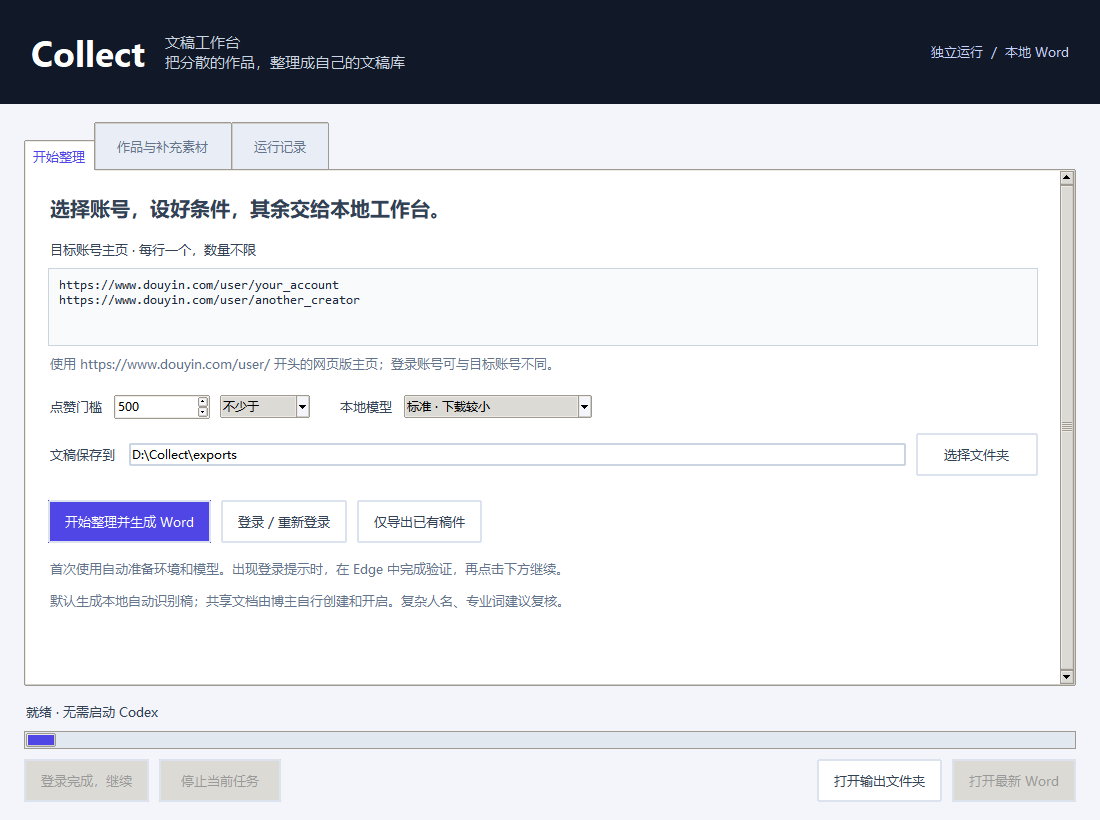
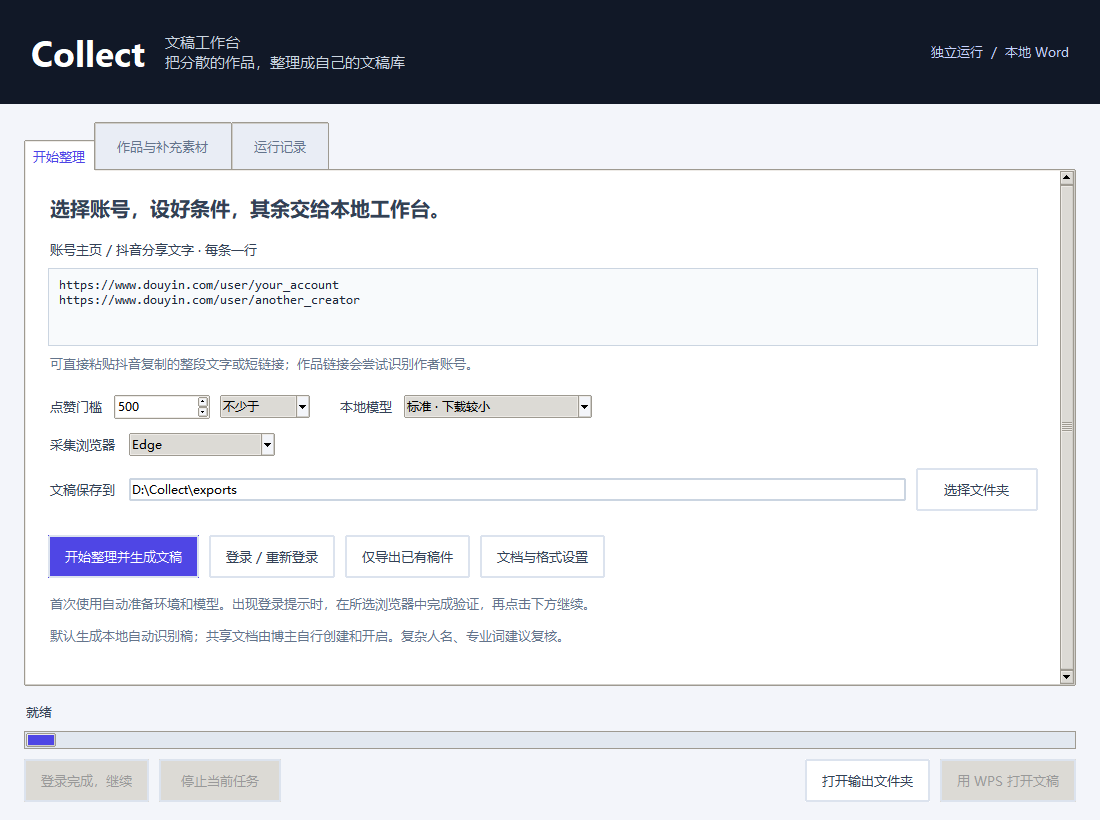
Add existing document targets and configurable formatting

diff --git a/scripts/desktop.py b/scripts/desktop.py
@@ -22,7 +22,7 @@ from douyin_viral_collector.desktop_runner import DesktopRunner
 
 STATUS = {'discovered': '等待识别', 'processing': '识别中', 'waiting_media': '需要原视频',
     'waiting_subtitles': '需要字幕画面', 'failed': '待重试', 'ready_to_archive': '可导出',
-    'exported_local': '已导出 Word', 'archived': '已归档', 'already_present': '已收录',
+    'exported_local': '已导出文稿', 'archived': '已归档', 'already_present': '已收录',
     'duplicate_review': '疑似重复，待核对', 'uncertain': '需要核对'}
 
 
@@ -121,12 +121,13 @@ class App(tk.Tk):
         ttk.Button(output, text='选择文件夹', command=self.choose_output).grid(row=0, column=2, padx=(10, 0))
         actions = ttk.Frame(setup, style='Card.TFrame')
         actions.grid(row=7, column=0, sticky='w', pady=(24, 14))
-        self.start_button = ttk.Button(actions, text='开始整理并生成 Word', style='Primary.TButton', command=self.start)
+        self.start_button = ttk.Button(actions, text='开始整理并生成文稿', style='Primary.TButton', command=self.start)
         self.start_button.pack(side='left', padx=(0, 10))
         self.login_button = ttk.Button(actions, text='登录 / 重新登录', command=lambda: self.start(True))
         self.login_button.pack(side='left', padx=(0, 10))
         self.export_button = ttk.Button(actions, text='仅导出已有稿件', command=lambda: self.task(self.runner.export))
         self.export_button.pack(side='left')
+        ttk.Button(actions,text='文档与格式设置',command=self.document_settings).pack(side='left',padx=(10,0))
         ttk.Label(setup, text='首次使用自动准备环境和模型。出现登录提示时，在所选浏览器中完成验证，再点击下方继续。',
             style='Card.TLabel', foreground='#64748b').grid(row=8, column=0, sticky='w', pady=(0, 9))
         ttk.Label(setup, text='默认生成本地自动识别稿；共享文档由博主自行创建和开启。复杂人名、专业词建议复核。',
@@ -150,7 +151,7 @@ class App(tk.Tk):
         self.log.pack(fill='both', expand=True)
         bottom = ttk.Frame(main, padding=(0, 14, 0, 0))
         bottom.pack(fill='x')
-        self.stage = tk.StringVar(value='就绪 · 无需启动 Codex')
+        self.stage = tk.StringVar(value='就绪')
         ttk.Label(bottom, textvariable=self.stage).pack(anchor='w')
         self.progress = ttk.Progressbar(bottom, mode='indeterminate')
         self.progress.pack(fill='x', pady=(8, 10))
@@ -229,7 +230,7 @@ class App(tk.Tk):
                     self.last_file = event.get('path')
                     if self.last_file:
                         self.open_file_button.configure(state='normal')
-                    self.stage.set(f"已生成 Word：{event.get('count', 0)}篇；待处理：{event.get('pending_count', 0)}篇。")
+                    self.stage.set(f"已生成文稿：{event.get('count', 0)}篇；待处理：{event.get('pending_count', 0)}篇。")
                 if kind in ('log', 'error'):
                     self.log.configure(state='normal')
                     self.log.insert('end', event.get('text', '') + '\n')
@@ -285,6 +286,27 @@ class App(tk.Tk):
             filetypes=[('视频文件', '*.mp4 *.mov *.mkv *.webm *.avi'), ('所有文件', '*.*')])
         if file:
             self.task(lambda: self.runner.bind_and_process(item['id'], file))
+
+    def document_settings(self):
+        from douyin_viral_collector.document_settings import save_settings,DEFAULTS
+        config=self.runner.config();fmt=dict(DEFAULTS,**config.get('document_format',{}));dialog=tk.Toplevel(self);dialog.title('文档与格式设置');dialog.geometry('720x630');dialog.transient(self)
+        panel=ttk.Frame(dialog,padding=20);panel.pack(fill='both',expand=True);panel.columnconfigure(1,weight=1);variables={}
+        fields=[('base_document','已有本地文档（可选）',config.get('word_export',{}).get('base_document','')),('url','金山共享文档链接（可选）',config.get('wps',{}).get('url','')),('title','共享文档准确标题',config.get('wps',{}).get('title','')),('font','字体',fmt['font']),('body_size','正文字号（磅）',fmt['body_size']),('heading_size','账号标题字号（磅）',fmt['heading_size']),('line_spacing','行距（倍数）',fmt['line_spacing']),('article_gap','篇间距（磅）',fmt['article_gap'])]
+        for row,(key,label,value) in enumerate(fields):
+            variables[key]=tk.StringVar(value=str(value));ttk.Label(panel,text=label).grid(row=row,column=0,sticky='w',pady=9);ttk.Entry(panel,textvariable=variables[key]).grid(row=row,column=1,sticky='ew',padx=(10,0))
+        def choose():
+            selected=filedialog.askopenfilename(parent=dialog,filetypes=[('WPS / Word 文档','*.docx')])
+            if selected:variables['base_document'].set(selected)
+        ttk.Button(panel,text='选择',command=choose).grid(row=0,column=2,padx=6)
+        flags={}
+        for row,(key,label,value) in enumerate([('inherit_existing','已有本地文档：沿用原有默认正文样式',fmt['inherit_existing']),('account_page_break','账号标题另起一页',fmt['account_page_break']),('cloud','启用共享文档追加（首次需备份及副本验证）',config.get('wps',{}).get('enabled',False))],8):
+            flags[key]=tk.BooleanVar(value=value);ttk.Checkbutton(panel,text=label,variable=flags[key]).grid(row=row,column=0,columnspan=3,sticky='w',pady=8)
+        ttk.Label(panel,text='本地已有文档保留原文和原格式，追加后另存新文件；不覆盖原件。\n自定义样式用于新增内容。共享写入需先完成该目标的验证。',wraplength=650).grid(row=11,column=0,columnspan=3,sticky='w',pady=12)
+        def save():
+            try:
+                values={k:v.get() for k,v in variables.items()};values.update({k:v.get() for k,v in flags.items()});save_settings(self.project,**values);self.stage.set('文档与格式设置已保存');dialog.destroy()
+            except (ValueError,OSError) as exc:messagebox.showerror('设置未保存',str(exc),parent=dialog)
+        ttk.Button(panel,text='保存设置',command=save,style='Primary.TButton').grid(row=12,column=1,sticky='e')
 
     def open_file(self):
         if self.last_file and Path(self.last_file).is_file():

diff --git a/src/douyin_viral_collector/richtext.py b/src/douyin_viral_collector/richtext.py
@@ -6,25 +6,27 @@ import xml.etree.ElementTree as ET
 from .wps_integrity import NS, W
 
 
-def archive_html(lines, headings=()):
+def archive_html(lines, headings=(), formatting=None):
+    from .document_settings import formatting as resolve_format
+    fmt=resolve_format({"document_format":formatting or {}})
     headings = set(headings)
     paragraphs = []
     for text in lines:
         if not text.strip():
             continue
         heading = text in headings
-        size = '14' if heading else '10.5'
+        size = format(fmt['heading_size'] if heading else fmt['body_size'],'g')
         entry = bool(re.match(r'^(?:20\d\d年)?\d{1,2}月\d{1,2}日', text.strip()))
-        gap = '10.5pt' if entry else '0'
-        style = (f'font-family:宋体;font-size:{size}pt;margin:0;margin-top:{gap};line-height:100%;'
+        gap = str(fmt['article_gap'])+'pt' if entry else '0'
+        style = (f'font-family:{html.escape(fmt["font"],quote=True)};font-size:{size}pt;margin:0;margin-top:{gap};line-height:{fmt["line_spacing"]*100}%;'
                  f'text-align:{"center" if heading else "left"};'
-                 + ('page-break-before:always;' if heading else 'page-break-before:auto;'))
-        paragraphs.append(f'<p style="{style}"><span style="font-family:宋体;font-size:{size}pt">{html.escape(text)}</span></p>')
+                 + ('page-break-before:always;' if heading and fmt['account_page_break'] else 'page-break-before:auto;'))
+        paragraphs.append(f'<p style="{style}"><span style="font-family:{html.escape(fmt["font"],quote=True)};font-size:{size}pt">{html.escape(text)}</span></p>')
     return '<html><body>'+''.join(paragraphs)+'</body></html>'
 
 
-def paste_archive(page, lines, headings=(), trim_terminal=True):
-    payload={'html':archive_html(lines, headings),'text':'\n'.join(lines)}
+def paste_archive(page, lines, headings=(), trim_terminal=True, formatting=None):
+    payload={'html':archive_html(lines, headings, formatting),'text':'\n'.join(lines)}
     handled=page.evaluate("""({html,text})=>{
         const data=new DataTransfer();data.setData('text/html',html);data.setData('text/plain',text);
         return !document.activeElement.dispatchEvent(new ClipboardEvent('paste',{
@@ -37,7 +39,9 @@ def paste_archive(page, lines, headings=(), trim_terminal=True):
         page.keyboard.press('Backspace');page.wait_for_timeout(1000)
 
 
-def verify_archive_format(path, headings, paragraph_indices=None):
+def verify_archive_format(path, headings, paragraph_indices=None, formatting=None):
+    from .document_settings import formatting as resolve_format
+    fmt=resolve_format({"document_format":formatting or {}})
     with zipfile.ZipFile(path) as z:
         doc = ET.fromstring(z.read('word/document.xml'))
     paragraphs = doc.findall('w:body/w:p', NS)
@@ -51,16 +55,16 @@ def verify_archive_format(path, headings, paragraph_indices=None):
                 raise ValueError('Unexpected blank paragraph in archive')
             continue
         heading = text in headings
-        size = '28' if heading else '21'  # OOXML half-points: 四号14pt, 五号10.5pt
+        size = str(round(2*(fmt['heading_size'] if heading else fmt['body_size'])))  # OOXML half-points: 四号14pt, 五号10.5pt
         page_break = p.find('w:pPr/w:pageBreakBefore',NS)
-        if (page_break is not None and page_break.get(W+'val','1') not in ('0','false','off')) != heading:
+        if (page_break is not None and page_break.get(W+'val','1') not in ('0','false','off')) != bool(heading and fmt['account_page_break']):
             raise ValueError('Only account headings may force a new page')
         spacing = p.find('w:pPr/w:spacing',NS)
         entry = bool(re.match(r'^(?:20\d\d年)?\d{1,2}月\d{1,2}日', text.strip()))
-        before = '210' if entry else '0'  # one 10.5pt body line between articles
+        before = str(round(fmt['article_gap']*20)) if entry else '0'  # one 10.5pt body line between articles
         if spacing is None or spacing.get(W+'before','0') != before or spacing.get(W+'after','0') != '0':
             raise ValueError('Unexpected paragraph spacing')
-        if spacing.get(W+'line') != '240' or spacing.get(W+'lineRule','auto') != 'auto':
+        if spacing.get(W+'line') != str(round(fmt['line_spacing']*240)) or spacing.get(W+'lineRule','auto') != 'auto':
             raise ValueError('Expected single line spacing')
         if any(e.get(W+'type')=='page' for e in p.iter(W+'br')):
             raise ValueError('Unexpected manual page break')
@@ -68,6 +72,6 @@ def verify_archive_format(path, headings, paragraph_indices=None):
             if not ''.join(e.text or '' for e in run.iter(W+'t')):
                 continue
             fonts=run.find('w:rPr/w:rFonts',NS);sz=run.find('w:rPr/w:sz',NS)
-            if fonts is None or fonts.get(W+'eastAsia')!='宋体' or sz is None or sz.get(W+'val')!=size:
+            if fonts is None or fonts.get(W+'eastAsia')!=fmt['font'] or sz is None or sz.get(W+'val')!=size:
                 raise ValueError('Archive font or size mismatch')
-    return {'songti_14pt_headings_10_5pt_body':True,'one_body_line_between_articles':True}
+    return {'configured_archive_format':True} if formatting else {'songti_14pt_headings_10_5pt_body':True,'one_body_line_between_articles':True}

diff --git a/src/douyin_viral_collector/word_export.py b/src/douyin_viral_collector/word_export.py
@@ -3,11 +3,11 @@ import hashlib,json,re
 from datetime import datetime
 from pathlib import Path
 
-def _font(style,size):
+def _font(style,size,font='宋体'):
  from docx.shared import Pt
  from docx.oxml.ns import qn
- style.font.name='宋体';style.font.size=Pt(size)
- style.element.get_or_add_rPr().get_or_add_rFonts().set(qn('w:eastAsia'),'宋体')
+ style.font.name=font;style.font.size=Pt(size)
+ style.element.get_or_add_rPr().get_or_add_rFonts().set(qn('w:eastAsia'),font)
 
 def _date(value):
  from .wps import publication_date
@@ -46,9 +46,13 @@ def export_word(service,output=None,records=None,title=None,cover=True):
  if path.suffix.lower()!='.docx':raise ValueError('输出文件需使用 .docx 扩展名')
  if path.exists():raise ValueError('输出文件已存在；请使用新文件名以保留已有校订')
  path.parent.mkdir(parents=True,exist_ok=True)
- doc=Document();section=doc.sections[0];section.page_width=Cm(21);section.page_height=Cm(29.7);section.top_margin=section.bottom_margin=Cm(2.2);section.left_margin=section.right_margin=Cm(2.5)
- for label,size in [('Normal',10.5),('Title',24),('Heading 1',14)]:
-  st=doc.styles[label];_font(st,size);st.font.color.rgb=RGBColor(0,0,0);st.paragraph_format.space_before=Pt(0);st.paragraph_format.space_after=Pt(0);st.paragraph_format.line_spacing=1
+ from .document_settings import formatting
+ fmt=formatting(config);base=config.get('word_export',{}).get('base_document');base=service.path.parent/base if base else None
+ doc=Document(base) if base else Document();old_count=len(doc.paragraphs);cover=cover and not base
+ section=doc.sections[0]
+ if not base:section.page_width=Cm(21);section.page_height=Cm(29.7);section.top_margin=section.bottom_margin=Cm(2.2);section.left_margin=section.right_margin=Cm(2.5)
+ for label,size in ([] if base else [('Normal',fmt['body_size']),('Title',24),('Heading 1',fmt['heading_size'])]):
+  st=doc.styles[label];_font(st,size,fmt['font']);st.font.color.rgb=RGBColor(0,0,0);st.paragraph_format.space_before=Pt(0);st.paragraph_format.space_after=Pt(0);st.paragraph_format.line_spacing=1
  names=[]
  for item in rows.values():
   if item['account_name'] not in names:names.append(item['account_name'])
@@ -70,6 +74,18 @@ def export_word(service,output=None,records=None,title=None,cover=True):
    if item.get('title'):doc.add_paragraph(str(item['title']))
    for line in item['body'].splitlines():
     if line.strip():doc.add_paragraph(line.strip())
+ if base and path.resolve()==base.resolve():raise ValueError('输出不能覆盖原始文档')
+ effective=dict(fmt)
+ if base and fmt.get('inherit_existing'):
+  normal=doc.styles['Normal'];effective['font']=normal.font.name or fmt['font'];effective['body_size']=normal.font.size.pt if normal.font.size else fmt['body_size']
+ from docx.oxml.ns import qn
+ for paragraph in doc.paragraphs[old_count:]:
+  heading=paragraph.style.name=='Heading 1';cover_title=paragraph.style.name=='Title'
+  for run in paragraph.runs:
+   run.font.name=effective['font'];run.font.size=Pt(effective['heading_size'] if heading else 24 if cover_title else effective['body_size']);run._element.get_or_add_rPr().get_or_add_rFonts().set(qn('w:eastAsia'),effective['font'])
+  paragraph.paragraph_format.line_spacing=effective['line_spacing']
+  if heading:paragraph.paragraph_format.page_break_before=bool(fmt['account_page_break'])
+  elif re.match(r'^\d{4}年.*点赞',paragraph.text):paragraph.paragraph_format.space_before=Pt(fmt['article_gap'])
  temporary=path.with_name(path.stem+'.partial.docx');doc.save(temporary)
  from zipfile import ZipFile
  with ZipFile(temporary) as package:

diff --git a/tests/test_document_settings.py b/tests/test_document_settings.py
@@ -1,0 +1,23 @@
+import json,tempfile,unittest
+from pathlib import Path
+from docx import Document
+from docx.shared import Pt
+from douyin_viral_collector.document_settings import save_settings
+from douyin_viral_collector.service import Service
+from douyin_viral_collector.word_export import export_word
+from douyin_viral_collector.richtext import archive_html
+class DocumentSettingsTests(unittest.TestCase):
+ def test_existing_doc_preserved_and_new_content_customized(self):
+  with tempfile.TemporaryDirectory() as tmp:
+   root=Path(tmp);original=root/'original.docx';doc=Document();doc.styles['Normal'].font.name='Arial';doc.styles['Normal'].font.size=Pt(12);p=doc.add_paragraph('用户已有原文');p.runs[0].bold=True;doc.save(original);old=original.read_bytes()
+   cfg={'mode':'import','accounts':[],'minimum_likes':500,'data_dir':'data','wps':{'enabled':False},'word_export':{'base_document':str(original)},'document_format':{'font':'黑体','body_size':12,'heading_size':16,'line_spacing':1.5,'article_gap':18,'account_page_break':False,'inherit_existing':False}};(root/'config.json').write_text(json.dumps(cfg),encoding='utf-8');service=Service(root/'config.json')
+   try:
+    result=export_word(service,records=[{'id':'x','account_name':'示例','likes':600,'published_at':'2026-10-01','body':'新稿正文'}]);new=Document(result['path']);self.assertEqual(original.read_bytes(),old);self.assertEqual(new.paragraphs[0].text,'用户已有原文');self.assertTrue(new.paragraphs[0].runs[0].bold);self.assertEqual(new.styles['Normal'].font.name,'Arial');body=new.paragraphs[-1];self.assertEqual(body.runs[0].font.name,'黑体');self.assertEqual(body.runs[0].font.size.pt,12);self.assertEqual(body.paragraph_format.line_spacing,1.5)
+   finally:service.store.db.close()
+ def test_shared_target_validation_and_backup(self):
+  with tempfile.TemporaryDirectory() as tmp:
+   root=Path(tmp);cfg={'data_dir':'data'};(root/'config.json').write_text(json.dumps(cfg),encoding='utf-8')
+   with self.assertRaises(ValueError):save_settings(root,url='https://example.com/other',cloud=True,title='示例')
+   saved=save_settings(root,url='https://www.kdocs.cn/l/example',title='示例文档',cloud=True,font='Arial',body_size=11);self.assertTrue(saved['wps']['enabled']);self.assertEqual(saved['document_format']['body_size'],11);self.assertTrue(list(root.glob('config.json.backup-*')))
+ def test_cloud_html_uses_selected_format(self):
+  result=archive_html(['示例账号','2026年10月1日，点赞600','正文'],['示例账号'],{'font':'Arial','body_size':12,'heading_size':18,'line_spacing':1.5,'article_gap':20,'account_page_break':False});self.assertIn('font-size:18pt',result);self.assertIn('font-size:12pt',result);self.assertIn('line-height:150.0%',result);self.assertNotIn('page-break-before:always',result)

diff --git a/src/douyin_viral_collector/document_settings.py b/src/douyin_viral_collector/document_settings.py
@@ -1,0 +1,26 @@
+import json,re,shutil,time
+from pathlib import Path
+
+DEFAULTS={'font':'宋体','body_size':10.5,'heading_size':14,'line_spacing':1,'article_gap':10.5,'account_page_break':True,'inherit_existing':True}
+def formatting(config):
+ result=dict(DEFAULTS,**config.get('document_format',{}))
+ if not result['font'].strip() or re.search(r'[<>;\"\r\n]',result['font']):raise ValueError('请输入有效字体名称')
+ for name,low,high in [('body_size',1,96),('heading_size',1,96),('line_spacing',1,3),('article_gap',0,96)]:
+  value=float(result[name])
+  if not low<=value<=high:raise ValueError('字号、行距或篇间距超出范围')
+  result[name]=value
+ return result
+
+def save_settings(root,base_document='',url='',title='',cloud=False,**style):
+ root=Path(root);path=root/'config.json';config=json.loads(path.read_text(encoding='utf-8-sig')) if path.exists() else json.loads((root/'config.example.json').read_text(encoding='utf-8-sig'))
+ if base_document:
+  base=Path(base_document).resolve()
+  if not base.is_file() or base.suffix.lower()!='.docx':raise ValueError('请选择有效的 .docx 文档')
+ if url and not re.fullmatch(r'https://(?:www\.)?kdocs\.cn/l/[A-Za-z0-9_-]+/?',url.strip()):raise ValueError('请输入有效的金山共享文档链接')
+ if cloud and (not url.strip() or not title.strip()):raise ValueError('启用共享追加需要填写链接和准确的文档标题')
+ config['document_format']=dict(DEFAULTS,**style);config['document_format']=formatting(config)
+ config.setdefault('word_export',{})['base_document']=str(Path(base_document).resolve()) if base_document else ''
+ config.setdefault('wps',{}).update(url=url.strip(),title=title.strip(),enabled=bool(cloud),require_account_page_breaks=config['document_format']['account_page_break'])
+ if path.exists():shutil.copy2(path,path.with_name('config.json.backup-'+str(time.time_ns())))
+ temp=path.with_suffix('.json.tmp');temp.write_text(json.dumps(config,ensure_ascii=False,indent=2),encoding='utf-8');temp.replace(path)
+ return config

diff --git a/tests/test_desktop.py b/tests/test_desktop.py
@@ -16,7 +16,7 @@ class DesktopWorkflowTests(unittest.TestCase):
         (self.root/'config.json').write_text(json.dumps(self.config),encoding='utf-8')
         self.model=self.root/'models/faster-whisper-small/model.bin';self.model.parent.mkdir(parents=True);self.model.write_bytes(b'fixture')
     def tearDown(self):self.tmp.cleanup()
-    def test_independent_flow_orders_login_before_collection_and_disables_cloud(self):
+    def test_independent_flow_orders_login_before_collection_and_preserves_explicit_cloud_setting(self):
         calls=[]
         def command(args,login=False):
             calls.append((args,login))
@@ -24,7 +24,7 @@ class DesktopWorkflowTests(unittest.TestCase):
             return {}
         with patch.object(self.runner,'prepare'),patch.object(self.runner,'_command',side_effect=command):
             self.runner.start('https://www.douyin.com/user/example','500')
-        self.assertEqual([c[0][2] for c in calls],['setup','login','organize']);self.assertTrue(calls[1][1]);self.assertFalse(self.runner.config()['wps']['enabled']);self.assertEqual(self.events[-1]['count'],2)
+        self.assertEqual([c[0][2] for c in calls],['setup','login','organize']);self.assertTrue(calls[1][1]);self.assertTrue(self.runner.config()['wps']['enabled']);self.assertEqual(self.events[-1]['count'],2)
     def test_login_failure_does_not_start_collection(self):
         def command(args,login=False):
             if login:raise RuntimeError('需要用户验证')

diff --git a/src/douyin_viral_collector/wps_writer.py b/src/douyin_viral_collector/wps_writer.py
@@ -134,7 +134,7 @@ class WPSBrowserWriter:
         try:
             page.keyboard.press('Enter');page.wait_for_timeout(600)
             from .richtext import paste_archive
-            paste_archive(page, text.splitlines())
+            paste_archive(page, text.splitlines(),formatting=self.service.config.get('document_format'))
             page.wait_for_timeout(4000)
             error=None
             for attempt in range(3):
@@ -145,7 +145,7 @@ class WPSBrowserWriter:
                         proof.update(verify_account_page_breaks(after,self.names))
                     from .richtext import verify_archive_format
                     inserted = [k for op,i,j,start,end in difflib.SequenceMatcher(a=before['canonical'],b=after['canonical'],autojunk=False).get_opcodes() if op=='insert' for k in range(start,end)]
-                    proof.update(verify_archive_format(after_path, self.names, inserted))
+                    proof.update(verify_archive_format(after_path, self.names, inserted,formatting=self.service.config.get('document_format')))
                     self.record(row,'verified',text,before_path,after_path)
                     (folder/'verification.json').write_text(json.dumps(proof,ensure_ascii=False,indent=2),encoding='utf-8')
                     return proof

diff --git a/src/douyin_viral_collector/desktop_runner.py b/src/douyin_viral_collector/desktop_runner.py
@@ -113,7 +113,7 @@ class DesktopRunner:
         self._command(args)
         config = self.config()
         config['model'] = 'models/faster-whisper-' + model
-        config.setdefault('wps', {})['enabled'] = False
+        config.setdefault('wps', {}).setdefault('enabled', False)
         (self.root / 'config.json').write_text(json.dumps(config, ensure_ascii=False, indent=2) + '\n', encoding='utf-8')
         if not login_only and not (self.root / config['model'] / 'model.bin').is_file():
             self.emit({'kind': 'stage', 'text': '首次下载识别模型，此步骤可能需要较长时间'})

diff --git a/README.md b/README.md
@@ -67,7 +67,7 @@ Collect 把账号筛选、作品记录、素材状态和文稿排版放在同一
 整理记录_日期_时间.json
 ```
 
-Word 默认包含账号分区和完整正文：账号标题宋体四号、独立起页；其他文字宋体五号；每篇记录发布时间、点赞、评论、收藏和分享，换行写类型、标题及正文。篇间留出一行，正文自然段连续排版。
+文稿按账号整理，包含日期统计、类型、标题和完整正文。字体、标题与正文字号、行距、篇间距以及账号是否另起一页，都可以在「文档与格式设置」中调整；初始值只是默认选项，不要求所有人使用同一种格式。
 
 统计暂未获取时显示「待获取」；没有完整且达标的正文时，只生成待处理清单，不用空文档充当成功结果。
 
@@ -179,3 +179,9 @@ python -m unittest discover -s tests -q
 ### 浏览器与 WPS
 
 桌面版支持选择 Edge 或 Chrome，二者分别保存登录会话。导出的 `.docx` 直接兼容 WPS；打开文稿按钮只调用 WPS，找不到 WPS 时会提示安装，不会转而启动 Word。生成文稿无需启动 Microsoft Word。
+
+### 使用已有文档与共享文稿
+
+点击「文档与格式设置」可以选择已有 `.docx`。整理结果会在保留原文的基础上另存新副本，原文件不覆盖；可沿用已有文档的默认正文样式，也可以为新增内容自定义样式。
+
+已有金山共享文档可以填写链接和准确标题，并按需要启用追加。仅添加链接不等于已验证可写；首次写入需备份与副本验证，旧文字和格式保持保护。共享权限仍由博主自行开启。
